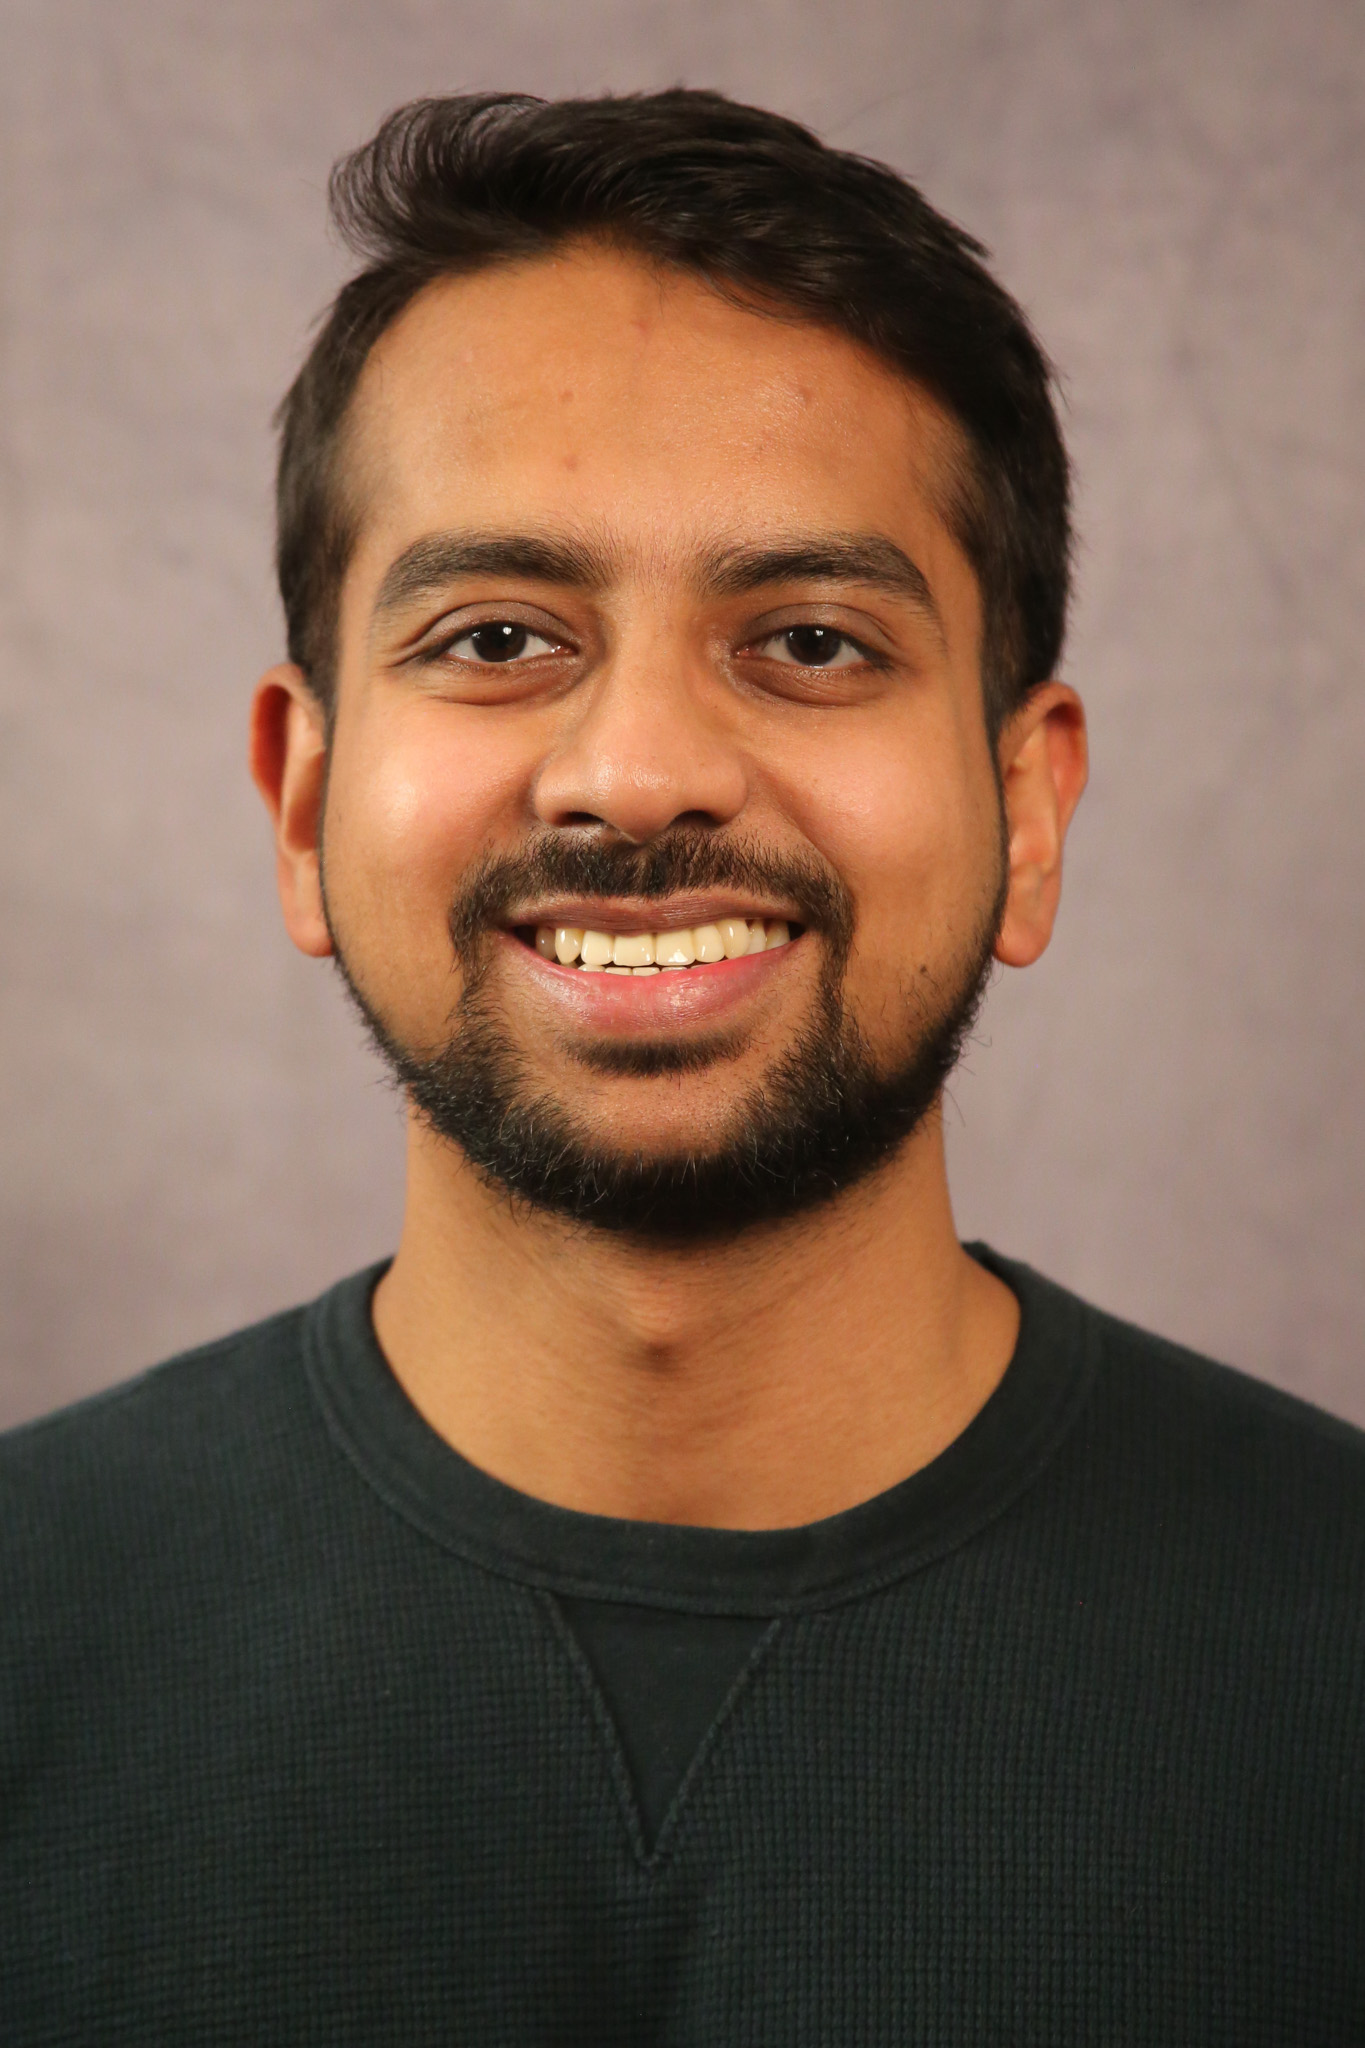
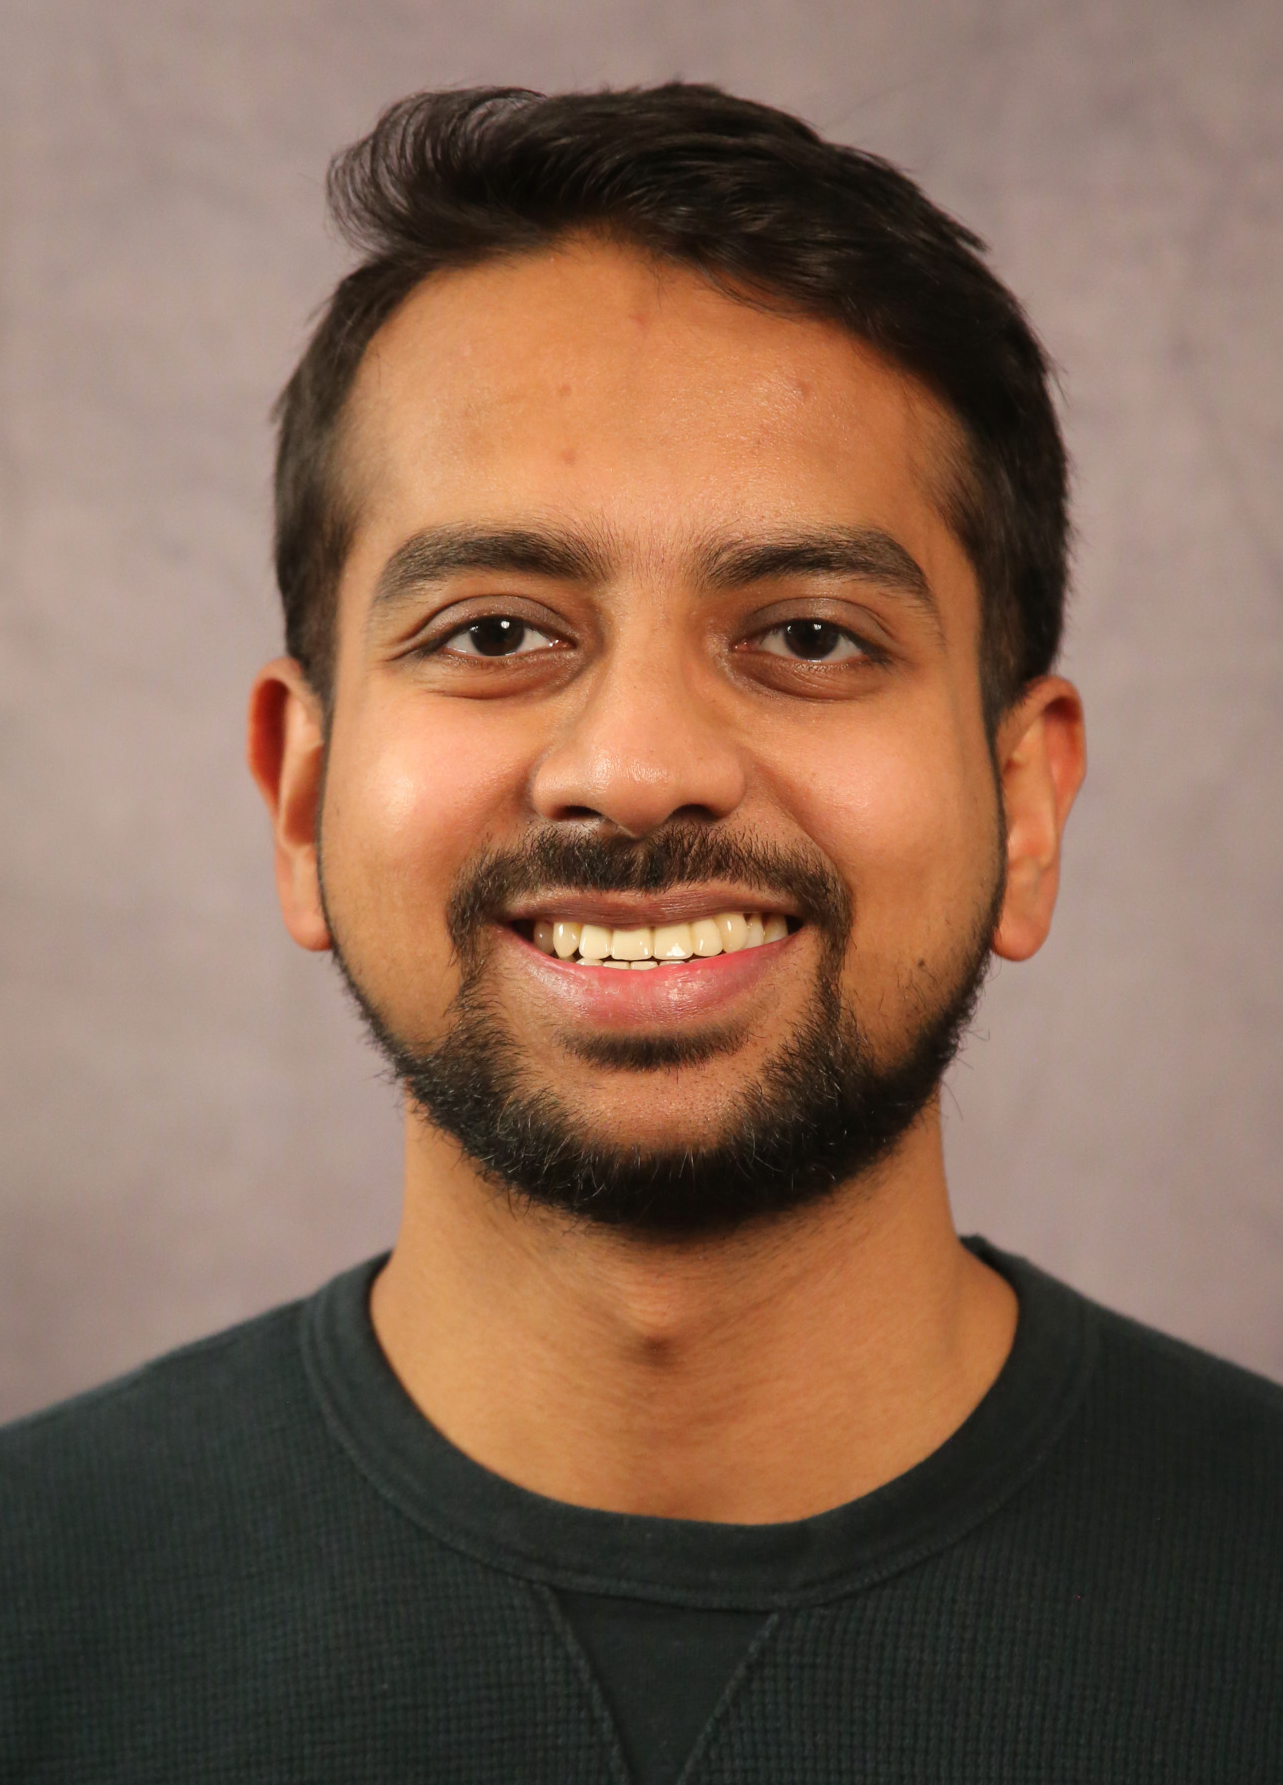
again resume

diff --git a/_pages/resume.md b/_pages/resume.md
@@ -7,6 +7,6 @@ permalink: /resume/
 <!-- <iframe src="files/Rohit_Sonker_resume.pdf" width="100%" height="600px">
 </iframe> -->
 
-<object data="https://<your-username>.github.io/assets/files/resume.pdf" type="application/pdf" width="100%" height="600px">
-    This browser does not support PDFs. Please download the PDF to view it: <a href="https://<your-username>.github.io/assets/files/resume.pdf">Download PDF</a>.
+<object data="https://rohit-sonker.github.io/files/RohitSonker_resume.pdf" type="application/pdf" width="100%" height="600px">
+    This browser does not support PDFs. Please download the PDF to view it: <a href="https://rohit-sonker.github.io/files/RohitSonker_resume.pdf">Download PDF</a>.
 </object>
